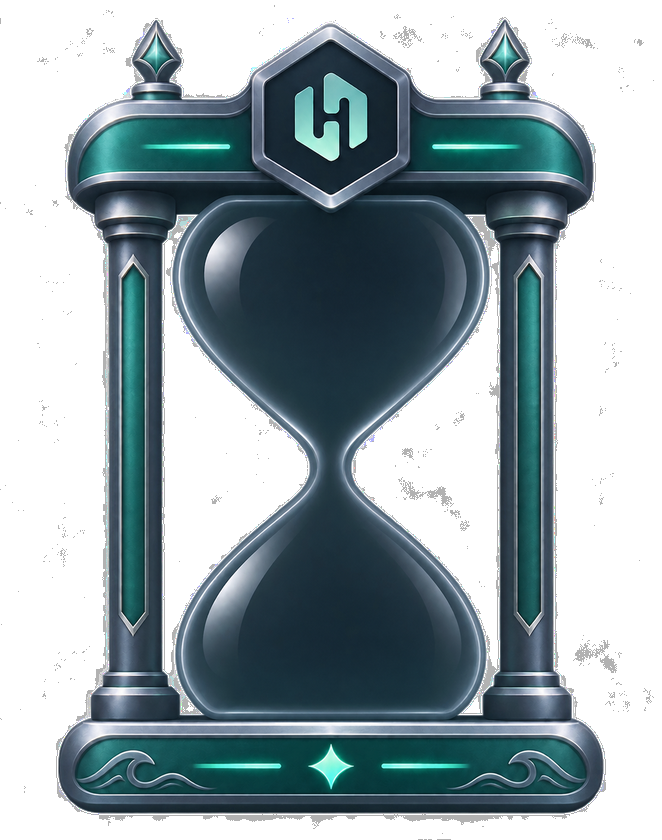
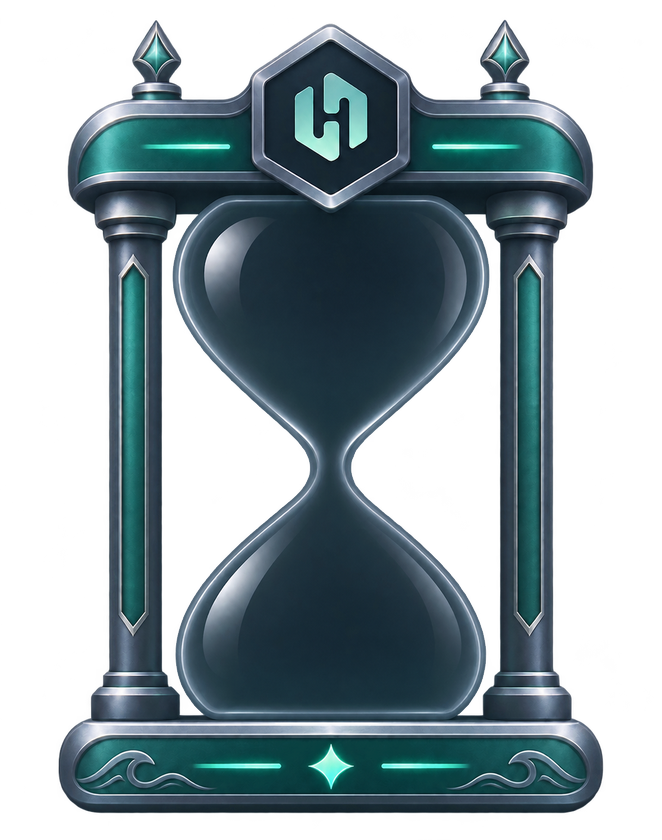
Hourglass frames: the glass made less see-through inside the glass only, so the art's faint specks around it no longer show as dark spots

diff --git a/theme/hourglassFrames.ts b/theme/hourglassFrames.ts
@@ -28,52 +28,52 @@ export interface GlassFrame {
 export const HOURGLASS_FRAMES: Record<string, GlassFrame> = {
     Lost: {
         image: require('@/assets/images/hourglasses/frames/lost.png'),
-        width: 662, height: 840, cx: 330, neck: 456, top: 207, bottom: 721, light: 0.75, foot: 812, brightness: 0.7,
-        outline: [[207, 204, 457], [219, 193, 467], [231, 186, 475], [243, 181, 480], [255, 178, 482], [267, 176, 484], [279, 176, 484], [291, 179, 482], [303, 182, 479], [315, 187, 474], [327, 194, 468], [339, 202, 459], [351, 211, 450], [363, 221, 439], [375, 233, 427], [387, 246, 414], [399, 259, 401], [411, 273, 387], [423, 286, 374], [435, 298, 363], [447, 306, 354], [459, 310, 351], [471, 310, 352], [483, 304, 357], [495, 294, 367], [507, 282, 379], [519, 268, 392], [531, 254, 405], [543, 241, 417], [555, 229, 429], [567, 218, 440], [579, 208, 450], [591, 199, 459], [603, 192, 467], [615, 186, 473], [627, 181, 478], [639, 178, 482], [651, 176, 484], [663, 176, 484], [675, 178, 483], [687, 181, 480], [699, 186, 476], [711, 193, 468], [721, 203, 458]],
+        width: 662, height: 840, cx: 330, neck: 466, top: 207, bottom: 722, light: 0.75, foot: 812, brightness: 0.7,
+        outline: [[207, 204, 457], [219, 193, 467], [231, 186, 474], [243, 181, 479], [255, 178, 482], [267, 177, 484], [279, 177, 484], [291, 179, 482], [303, 183, 479], [315, 187, 474], [327, 194, 468], [339, 202, 459], [351, 211, 449], [363, 221, 439], [375, 233, 427], [387, 246, 414], [399, 259, 401], [411, 273, 387], [423, 287, 374], [435, 298, 362], [447, 307, 354], [459, 310, 351], [471, 310, 351], [483, 305, 357], [495, 295, 367], [507, 282, 379], [519, 269, 392], [531, 255, 404], [543, 241, 417], [555, 229, 429], [567, 218, 440], [579, 208, 450], [591, 200, 459], [603, 192, 467], [615, 186, 473], [627, 182, 478], [639, 178, 481], [651, 177, 484], [663, 177, 484], [675, 178, 483], [687, 181, 480], [699, 186, 475], [711, 193, 468], [722, 204, 457]],
     },
     Beginner: {
         image: require('@/assets/images/hourglasses/frames/beginner.png'),
-        width: 662, height: 840, cx: 331, neck: 461, top: 212, bottom: 718, light: 0.74, foot: 816, brightness: 0.7,
-        outline: [[212, 195, 463], [224, 187, 472], [236, 180, 478], [248, 177, 482], [260, 173, 485], [272, 174, 486], [284, 176, 484], [296, 178, 481], [308, 183, 477], [320, 188, 471], [332, 196, 464], [344, 204, 456], [356, 214, 446], [368, 225, 434], [380, 238, 423], [392, 251, 410], [404, 264, 397], [416, 278, 383], [428, 291, 370], [440, 302, 359], [452, 307, 354], [464, 308, 353], [476, 306, 355], [488, 298, 363], [500, 287, 375], [512, 273, 388], [524, 260, 402], [536, 245, 415], [548, 232, 427], [560, 221, 438], [572, 210, 448], [584, 202, 457], [596, 193, 465], [608, 188, 472], [620, 183, 477], [632, 179, 481], [644, 177, 484], [656, 176, 486], [668, 178, 484], [680, 180, 480], [692, 184, 477], [704, 192, 470], [716, 202, 458], [718, 205, 456]],
+        width: 662, height: 840, cx: 330, neck: 457, top: 212, bottom: 718, light: 0.74, foot: 816, brightness: 0.7,
+        outline: [[212, 196, 463], [224, 187, 472], [236, 181, 478], [248, 177, 482], [260, 175, 484], [272, 174, 485], [284, 176, 484], [296, 179, 481], [308, 183, 477], [320, 189, 471], [332, 196, 464], [344, 205, 455], [356, 215, 445], [368, 226, 434], [380, 238, 422], [392, 251, 410], [404, 264, 396], [416, 278, 383], [428, 292, 369], [440, 302, 359], [452, 307, 354], [464, 308, 353], [476, 306, 355], [488, 298, 363], [500, 287, 374], [512, 274, 388], [524, 260, 401], [536, 246, 415], [548, 232, 427], [560, 221, 438], [572, 211, 448], [584, 202, 457], [596, 194, 465], [608, 188, 472], [620, 183, 477], [632, 180, 481], [644, 177, 483], [656, 177, 485], [668, 178, 484], [680, 181, 480], [692, 186, 475], [704, 193, 469], [716, 203, 458], [718, 205, 455]],
     },
     Consistent: {
         image: require('@/assets/images/hourglasses/frames/consistent.png'),
-        width: 662, height: 840, cx: 330, neck: 460, top: 205, bottom: 723, light: 0.75, foot: 816, brightness: 0.7,
-        outline: [[205, 91, 472], [217, 193, 468], [229, 185, 475], [241, 180, 481], [253, 176, 484], [265, 175, 486], [277, 175, 486], [289, 176, 485], [301, 179, 482], [313, 184, 477], [325, 191, 471], [337, 198, 462], [349, 208, 453], [361, 218, 442], [373, 230, 431], [385, 243, 418], [397, 256, 405], [409, 270, 391], [421, 283, 378], [433, 295, 365], [445, 304, 357], [457, 309, 352], [469, 309, 352], [481, 304, 357], [493, 295, 367], [505, 283, 379], [517, 269, 392], [529, 255, 405], [541, 242, 419], [553, 230, 430], [565, 219, 442], [577, 209, 452], [589, 200, 461], [601, 192, 469], [613, 186, 475], [625, 181, 480], [637, 178, 484], [649, 175, 486], [661, 175, 486], [673, 176, 485], [685, 179, 483], [697, 184, 478], [709, 191, 470], [721, 202, 460], [723, 205, 457]],
+        width: 662, height: 840, cx: 330, neck: 460, top: 205, bottom: 723, light: 0.75, foot: 815, brightness: 0.7,
+        outline: [[205, 193, 466], [217, 193, 467], [229, 186, 475], [241, 180, 481], [253, 177, 484], [265, 175, 486], [277, 175, 486], [289, 176, 485], [301, 180, 482], [313, 184, 477], [325, 191, 470], [337, 199, 462], [349, 208, 453], [361, 219, 442], [373, 231, 430], [385, 243, 417], [397, 256, 404], [409, 270, 391], [421, 283, 378], [433, 295, 365], [445, 304, 356], [457, 309, 352], [469, 309, 352], [481, 304, 356], [493, 295, 366], [505, 283, 378], [517, 269, 392], [529, 256, 405], [541, 242, 418], [553, 230, 430], [565, 219, 442], [577, 209, 452], [589, 200, 461], [601, 192, 468], [613, 186, 475], [625, 181, 480], [637, 178, 483], [649, 175, 486], [661, 175, 486], [673, 177, 485], [685, 180, 482], [697, 184, 477], [709, 192, 470], [721, 203, 460], [723, 205, 457]],
     },
     Growing: {
         image: require('@/assets/images/hourglasses/frames/growing.png'),
-        width: 662, height: 840, cx: 328, neck: 467, top: 222, bottom: 728, light: 0.75, foot: 815, brightness: 0.8,
-        outline: [[222, 91, 470], [234, 189, 468], [246, 182, 475], [258, 178, 479], [270, 176, 481], [282, 175, 482], [294, 176, 481], [306, 178, 478], [318, 182, 474], [330, 188, 468], [342, 196, 461], [354, 205, 452], [366, 215, 442], [378, 227, 431], [390, 239, 419], [402, 252, 406], [414, 265, 392], [426, 278, 379], [438, 290, 367], [450, 300, 357], [462, 306, 352], [474, 307, 350], [486, 304, 353], [498, 297, 361], [510, 286, 371], [522, 274, 384], [534, 260, 397], [546, 247, 410], [558, 235, 423], [570, 223, 435], [582, 212, 446], [594, 202, 456], [606, 194, 464], [618, 187, 470], [630, 182, 475], [642, 178, 479], [654, 176, 480], [666, 176, 481], [678, 177, 480], [690, 179, 478], [702, 183, 474], [714, 190, 467], [726, 203, 454], [728, 200, 451]],
+        width: 662, height: 840, cx: 329, neck: 468, top: 222, bottom: 728, light: 0.75, foot: 815, brightness: 0.8,
+        outline: [[222, 200, 458], [234, 190, 468], [246, 183, 474], [258, 178, 479], [270, 176, 481], [282, 175, 481], [294, 176, 480], [306, 179, 478], [318, 183, 474], [330, 189, 468], [342, 196, 461], [354, 205, 452], [366, 216, 442], [378, 227, 430], [390, 239, 418], [402, 252, 405], [414, 265, 392], [426, 278, 379], [438, 290, 367], [450, 300, 357], [462, 307, 351], [474, 308, 350], [486, 305, 353], [498, 297, 360], [510, 286, 371], [522, 274, 383], [534, 261, 397], [546, 248, 410], [558, 235, 423], [570, 223, 434], [582, 212, 446], [594, 202, 455], [606, 194, 464], [618, 187, 470], [630, 182, 475], [642, 179, 478], [654, 177, 480], [666, 176, 480], [678, 177, 479], [690, 180, 477], [702, 184, 473], [714, 191, 467], [726, 203, 454], [728, 206, 450]],
     },
     Disciplined: {
         image: require('@/assets/images/hourglasses/frames/disciplined.png'),
-        width: 662, height: 840, cx: 330, neck: 464, top: 204, bottom: 717, light: 0.75, foot: 814, brightness: 0.8,
-        outline: [[204, 207, 453], [216, 195, 466], [228, 187, 474], [240, 181, 480], [252, 177, 484], [264, 174, 487], [276, 174, 487], [288, 175, 487], [300, 178, 484], [312, 182, 480], [324, 189, 474], [336, 197, 465], [348, 206, 456], [360, 217, 446], [372, 228, 434], [384, 240, 421], [396, 253, 408], [408, 266, 395], [420, 279, 382], [432, 291, 369], [444, 302, 359], [456, 308, 353], [468, 310, 351], [480, 306, 354], [492, 298, 363], [504, 287, 374], [516, 273, 387], [528, 259, 401], [540, 246, 414], [552, 232, 427], [564, 221, 440], [576, 210, 450], [588, 201, 459], [600, 193, 467], [612, 187, 474], [624, 182, 478], [636, 179, 482], [648, 177, 484], [660, 177, 484], [672, 178, 483], [684, 182, 480], [696, 187, 474], [708, 196, 466], [717, 204, 457]],
+        width: 662, height: 840, cx: 330, neck: 462, top: 204, bottom: 718, light: 0.75, foot: 814, brightness: 0.8,
+        outline: [[204, 208, 453], [216, 195, 465], [228, 187, 474], [240, 181, 480], [252, 177, 484], [264, 175, 486], [276, 174, 487], [288, 175, 486], [300, 178, 484], [312, 182, 479], [324, 189, 473], [336, 197, 465], [348, 206, 456], [360, 217, 445], [372, 229, 433], [384, 241, 421], [396, 253, 408], [408, 266, 395], [420, 279, 381], [432, 292, 369], [444, 302, 359], [456, 308, 353], [468, 310, 351], [480, 307, 354], [492, 299, 362], [504, 287, 374], [516, 274, 387], [528, 260, 401], [540, 246, 414], [552, 233, 427], [564, 221, 439], [576, 210, 450], [588, 201, 459], [600, 193, 467], [612, 187, 473], [624, 182, 478], [636, 179, 482], [648, 177, 484], [660, 177, 484], [672, 179, 482], [684, 182, 479], [696, 187, 474], [708, 196, 466], [718, 199, 564]],
     },
     Focused: {
         image: require('@/assets/images/hourglasses/frames/focused.png'),
-        width: 662, height: 840, cx: 330, neck: 465, top: 214, bottom: 714, light: 0.75, foot: 812, brightness: 0.8,
-        outline: [[214, 187, 567], [226, 188, 473], [238, 181, 480], [250, 176, 485], [262, 174, 488], [274, 173, 488], [286, 173, 488], [298, 175, 486], [310, 179, 482], [322, 185, 477], [334, 192, 470], [346, 200, 461], [358, 210, 451], [370, 221, 440], [382, 233, 428], [394, 246, 415], [406, 259, 402], [418, 273, 388], [430, 286, 374], [442, 298, 362], [454, 307, 354], [466, 310, 350], [478, 308, 352], [490, 301, 359], [502, 288, 371], [514, 274, 385], [526, 259, 400], [538, 246, 414], [550, 233, 427], [562, 221, 439], [574, 210, 450], [586, 201, 459], [598, 193, 467], [610, 186, 474], [622, 181, 479], [634, 178, 483], [646, 176, 485], [658, 176, 485], [670, 177, 484], [682, 180, 480], [694, 186, 475], [706, 195, 466], [714, 203, 458]],
+        width: 662, height: 840, cx: 330, neck: 462, top: 214, bottom: 714, light: 0.75, foot: 812, brightness: 0.8,
+        outline: [[214, 198, 464], [226, 188, 473], [238, 182, 480], [250, 177, 485], [262, 174, 487], [274, 173, 488], [286, 173, 488], [298, 176, 486], [310, 179, 482], [322, 185, 477], [334, 192, 470], [346, 201, 461], [358, 210, 451], [370, 221, 440], [382, 234, 428], [394, 247, 414], [406, 259, 401], [418, 273, 387], [430, 287, 374], [442, 299, 362], [454, 307, 353], [466, 310, 350], [478, 308, 352], [490, 301, 359], [502, 288, 371], [514, 274, 385], [526, 260, 400], [538, 246, 413], [550, 233, 426], [562, 221, 439], [574, 210, 450], [586, 201, 459], [598, 193, 467], [610, 187, 473], [622, 182, 479], [634, 178, 482], [646, 176, 485], [658, 176, 485], [670, 177, 483], [682, 181, 480], [694, 186, 474], [706, 195, 466], [714, 203, 457]],
     },
     Master: {
         image: require('@/assets/images/hourglasses/frames/master.png'),
-        width: 609, height: 840, cx: 302, neck: 469, top: 216, bottom: 725, light: 0.74, foot: 819, brightness: 0.8,
-        outline: [[216, 172, 434], [228, 161, 445], [240, 154, 453], [252, 149, 458], [264, 146, 461], [276, 144, 462], [288, 145, 462], [300, 146, 460], [312, 150, 457], [324, 154, 452], [336, 161, 445], [348, 169, 437], [360, 178, 428], [372, 188, 417], [384, 200, 406], [396, 213, 393], [408, 226, 380], [420, 239, 366], [432, 253, 351], [444, 266, 339], [456, 276, 329], [468, 280, 324], [480, 279, 325], [492, 273, 332], [504, 261, 344], [516, 247, 358], [528, 233, 372], [540, 218, 386], [552, 205, 399], [564, 192, 411], [576, 181, 422], [588, 171, 432], [600, 163, 440], [612, 156, 448], [624, 151, 453], [636, 147, 457], [648, 145, 460], [660, 144, 462], [672, 145, 461], [684, 147, 459], [696, 152, 455], [708, 159, 449], [720, 169, 439], [725, 176, 433]],
+        width: 609, height: 840, cx: 302, neck: 467, top: 215, bottom: 725, light: 0.74, foot: 818, brightness: 0.8,
+        outline: [[215, 168, 434], [227, 162, 444], [239, 154, 452], [251, 149, 457], [263, 146, 461], [275, 145, 462], [287, 145, 462], [299, 147, 460], [311, 150, 457], [323, 154, 452], [335, 160, 446], [347, 168, 438], [359, 177, 429], [371, 188, 418], [383, 199, 406], [395, 212, 394], [407, 225, 380], [419, 239, 367], [431, 252, 352], [443, 265, 339], [455, 275, 329], [467, 281, 324], [479, 280, 325], [491, 274, 331], [503, 262, 342], [515, 249, 356], [527, 234, 371], [539, 220, 385], [551, 206, 398], [563, 194, 410], [575, 182, 421], [587, 172, 431], [599, 164, 440], [611, 157, 447], [623, 152, 452], [635, 148, 457], [647, 146, 460], [659, 145, 461], [671, 145, 461], [683, 147, 459], [695, 152, 455], [707, 158, 449], [719, 168, 439], [725, 176, 433]],
     },
     Unbreakable: {
         image: require('@/assets/images/hourglasses/frames/unbreakable.png'),
-        width: 662, height: 840, cx: 330, neck: 460, top: 234, bottom: 713, light: 0.75, foot: 811, brightness: 0.8,
-        outline: [[234, 185, 579], [246, 180, 480], [258, 177, 483], [270, 176, 484], [282, 176, 484], [294, 178, 482], [306, 182, 479], [318, 187, 474], [330, 193, 467], [342, 202, 459], [354, 212, 449], [366, 223, 437], [378, 235, 425], [390, 248, 412], [402, 261, 399], [414, 274, 386], [426, 287, 373], [438, 298, 362], [450, 305, 355], [462, 308, 352], [474, 306, 354], [486, 300, 360], [498, 289, 371], [510, 276, 384], [522, 262, 398], [534, 248, 412], [546, 235, 426], [558, 223, 437], [570, 212, 448], [582, 203, 457], [594, 195, 465], [606, 189, 471], [618, 185, 476], [630, 182, 479], [642, 181, 480], [654, 181, 480], [666, 182, 478], [678, 185, 477], [690, 186, 471], [702, 200, 469], [713, 218, 444]],
+        width: 662, height: 840, cx: 330, neck: 458, top: 232, bottom: 713, light: 0.75, foot: 810, brightness: 0.8,
+        outline: [[232, 186, 580], [244, 181, 480], [256, 178, 483], [268, 176, 484], [280, 176, 484], [292, 178, 482], [304, 181, 479], [316, 186, 474], [328, 193, 468], [340, 201, 460], [352, 210, 450], [364, 221, 439], [376, 233, 427], [388, 246, 414], [400, 259, 401], [412, 272, 388], [424, 286, 374], [436, 297, 363], [448, 305, 355], [460, 308, 352], [472, 307, 353], [484, 302, 358], [496, 292, 368], [508, 278, 381], [520, 264, 395], [532, 250, 410], [544, 237, 423], [556, 225, 435], [568, 214, 446], [580, 205, 456], [592, 197, 464], [604, 190, 470], [616, 186, 475], [628, 182, 478], [640, 83, 480], [652, 180, 480], [664, 182, 479], [676, 184, 476], [688, 186, 471], [700, 192, 469], [712, 214, 466], [713, 218, 444]],
     },
     Timekeeper: {
         image: require('@/assets/images/hourglasses/frames/timekeeper.png'),
-        width: 662, height: 840, cx: 330, neck: 457, top: 218, bottom: 713, light: 0.56, foot: 808, brightness: 0.8,
-        outline: [[218, 199, 461], [230, 190, 471], [242, 183, 477], [254, 179, 481], [266, 177, 483], [278, 177, 484], [290, 178, 483], [302, 180, 480], [314, 184, 476], [326, 190, 470], [338, 197, 463], [350, 206, 454], [362, 216, 443], [374, 228, 431], [386, 241, 419], [398, 254, 405], [410, 268, 391], [422, 282, 377], [434, 294, 365], [446, 303, 356], [458, 307, 352], [470, 307, 352], [482, 303, 356], [494, 294, 365], [506, 280, 379], [518, 266, 393], [530, 252, 407], [542, 239, 421], [554, 226, 433], [566, 215, 445], [578, 205, 455], [590, 197, 463], [602, 190, 470], [614, 184, 476], [626, 181, 479], [638, 179, 481], [650, 178, 482], [662, 179, 481], [674, 182, 478], [686, 187, 473], [698, 195, 466], [710, 208, 453], [713, 212, 448]],
+        width: 662, height: 840, cx: 330, neck: 461, top: 217, bottom: 714, light: 0.56, foot: 808, brightness: 0.8,
+        outline: [[217, 195, 461], [229, 191, 470], [241, 184, 476], [253, 180, 480], [265, 178, 483], [277, 177, 483], [289, 178, 483], [301, 180, 480], [313, 184, 476], [325, 190, 470], [337, 197, 463], [349, 206, 454], [361, 216, 444], [373, 227, 432], [385, 240, 419], [397, 253, 406], [409, 267, 392], [421, 281, 378], [433, 293, 365], [445, 302, 356], [457, 307, 352], [469, 307, 352], [481, 304, 355], [493, 295, 364], [505, 282, 377], [517, 268, 392], [529, 253, 406], [541, 240, 419], [553, 227, 432], [565, 216, 443], [577, 206, 454], [589, 198, 462], [601, 191, 469], [613, 185, 475], [625, 182, 479], [637, 179, 481], [649, 179, 482], [661, 180, 481], [673, 182, 478], [685, 187, 474], [697, 194, 466], [709, 207, 454], [714, 210, 450]],
     },
     Eternal: {
         image: require('@/assets/images/hourglasses/frames/eternal.png'),
-        width: 662, height: 840, cx: 330, neck: 465, top: 210, bottom: 717, light: 0.25, foot: 815, brightness: 0.8,
-        outline: [[210, 203, 456], [222, 192, 468], [234, 184, 476], [246, 179, 482], [258, 175, 486], [270, 173, 488], [282, 172, 489], [294, 173, 488], [306, 176, 485], [318, 180, 481], [330, 185, 476], [342, 193, 468], [354, 202, 459], [366, 213, 448], [378, 225, 435], [390, 239, 421], [402, 255, 405], [414, 270, 390], [426, 284, 375], [438, 297, 363], [450, 305, 354], [462, 308, 351], [474, 307, 352], [486, 302, 357], [498, 293, 367], [510, 280, 380], [522, 266, 394], [534, 251, 409], [546, 238, 422], [558, 225, 435], [570, 213, 447], [582, 203, 458], [594, 194, 467], [606, 187, 474], [618, 181, 479], [630, 177, 484], [642, 174, 487], [654, 173, 488], [666, 173, 488], [678, 175, 486], [690, 179, 482], [702, 185, 476], [714, 194, 467], [717, 197, 464]],
+        width: 662, height: 840, cx: 330, neck: 463, top: 210, bottom: 718, light: 0.25, foot: 815, brightness: 0.8,
+        outline: [[210, 204, 456], [222, 192, 468], [234, 184, 476], [246, 179, 482], [258, 175, 486], [270, 173, 488], [282, 172, 488], [294, 173, 487], [306, 176, 485], [318, 180, 481], [330, 186, 475], [342, 193, 468], [354, 203, 459], [366, 214, 448], [378, 226, 434], [390, 240, 421], [402, 255, 405], [414, 270, 389], [426, 285, 375], [438, 297, 363], [450, 305, 354], [462, 309, 351], [474, 308, 352], [486, 302, 357], [498, 293, 367], [510, 280, 380], [522, 267, 393], [534, 252, 408], [546, 238, 422], [558, 226, 435], [570, 214, 447], [582, 203, 458], [594, 194, 466], [606, 187, 474], [618, 182, 479], [630, 177, 484], [642, 174, 487], [654, 173, 488], [666, 173, 488], [678, 175, 486], [690, 179, 482], [702, 185, 476], [714, 194, 467], [718, 197, 463]],
     },
 };

diff --git a/scripts/trace-hourglass-frames.py b/scripts/trace-hourglass-frames.py
@@ -89,24 +89,29 @@ def trace(im):
     light = round(max(0.25, min(0.75, 0.75 - (glass - 0.25) * 2.5)), 2)
     # Where the base ends: it stands on the podium there, covering the step's light.
     foot = max(yy for yy in range(h) if any(a[x, yy] > 128 for x in range(0, w, 3)))
-    return dict(width=w, height=h, cx=cx, neck=neck, top=top, bottom=bottom, light=light, foot=foot, outline=outline)
+    return dict(width=w, height=h, cx=cx, neck=neck, top=top, bottom=bottom, light=light, foot=foot, outline=outline, rows={yy: rows[yy] for yy in range(top, bottom + 1)})
 
 out = []
 for rank, name in FILES.items():
     im = keyed(Image.open(os.path.join(SRC, name)))
     im = im.resize((round(im.width * H / im.height), H), Image.LANCZOS)
-    # The glass 30% less see-through: what shows through anything partly clear is cut by 30%.
-    a = im.split()[3].point(lambda v: v if v in (0, 255) else round(255 - 0.7 * (255 - v)))
-    im.putalpha(a)
-    im.save(f'assets/images/hourglasses/frames/{rank.lower()}.png', optimize=True)
     g = trace(im)
+    # The glass 30% less see-through: inside the traced glass only, what shows through is cut by
+    # 30%. Never outside it, where the art's faint specks would turn into dark spots.
+    al = im.split()[3]; ap = al.load()
+    for yy, l, r in [(y, *v) for y, v in g['rows'].items()]:
+        for x in range(l, r + 1):
+            v = ap[x, yy]
+            if 0 < v < 255: ap[x, yy] = round(255 - 0.7 * (255 - v))
+    im.putalpha(al)
+    im.save(f'assets/images/hourglasses/frames/{rank.lower()}.png', optimize=True)
     rows = ', '.join(f'[{y}, {l}, {r}]' for y, l, r in g['outline'])
     out.append(f"""    {rank}: {{
         image: require('@/assets/images/hourglasses/frames/{rank.lower()}.png'),
         width: {g['width']}, height: {g['height']}, cx: {g['cx']}, neck: {g['neck']}, top: {g['top']}, bottom: {g['bottom']}, light: {g['light']}, foot: {g['foot']}, brightness: {BRIGHTNESS.get(rank, 0.8)},
         outline: [{rows}],
     }},""")
-    print(rank, {k: v for k, v in g.items() if k != 'outline'})
+    print(rank, {k: v for k, v in g.items() if k not in ('outline', 'rows')})
 
 open('theme/hourglassFrames.ts', 'w').write("""import type { ImageSourcePropType } from 'react-native';
 
